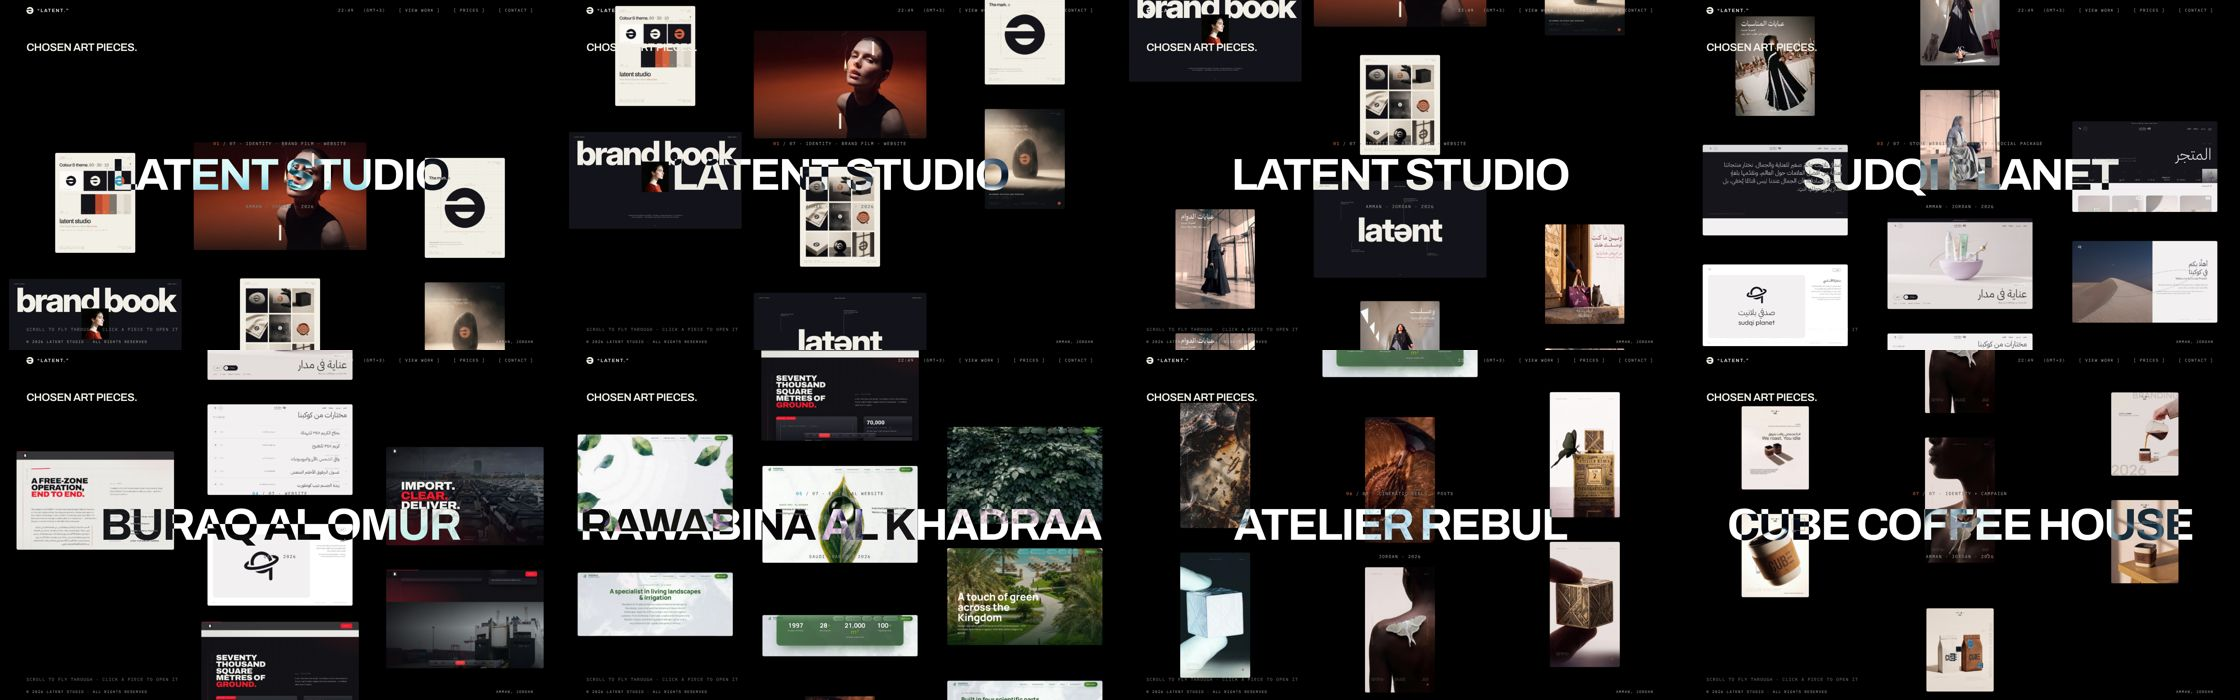
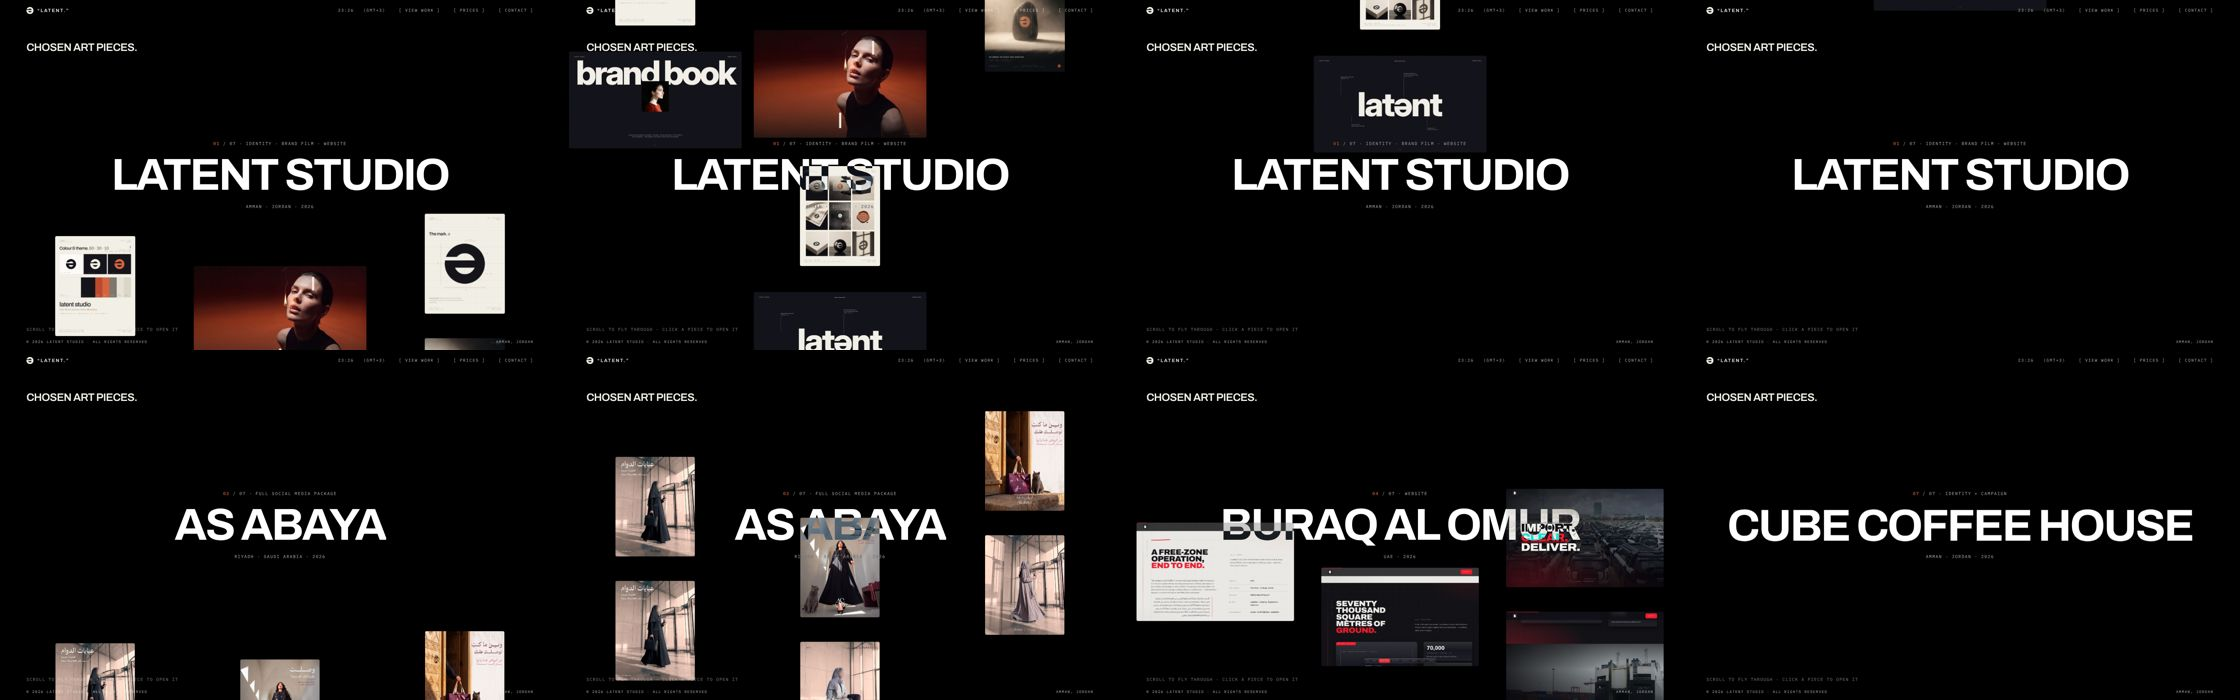
E: one project at a time in the field, an empty stretch and a name change between projects
Claude-Session: https://claude.ai/code/session_0142D8cuVtdJreCuNyu9fMo2

diff --git a/latent-v3e/index.html b/latent-v3e/index.html
@@ -2528,7 +2528,7 @@ html.pg-snap{scroll-snap-type:y proximity}
 
 /* the chosen art pieces: a flight through space */
 .fy{padding:0;background:#000;color:var(--ivory)}
-.fy-hold{position:relative;height:calc(100svh + var(--n,6) * 170vh)}
+.fy-hold{position:relative;height:calc(100svh + var(--n,6) * 190vh)}
 .fy-stage{position:sticky;top:0;height:100vh;height:100svh;overflow:hidden;background:#000}
 .fy-kick{position:absolute;left:var(--gut);top:clamp(72px,12vh,120px);z-index:5;color:var(--ivory);font-size:clamp(18px,2vw,28px)!important}
 .fy-world{position:absolute;inset:0}
@@ -2547,7 +2547,7 @@ html.pg-snap{scroll-snap-type:y proximity}
 .fy-mono{margin:0;font-family:"IBM Plex Mono",monospace;font-size:11px;letter-spacing:.16em;text-transform:uppercase;color:rgba(242,239,231,.7)}
 .fy-mono b{font-weight:500;color:var(--ember)}
 .fy-hint{position:absolute;left:var(--gut);bottom:clamp(24px,5vh,48px);margin:0;font-family:"IBM Plex Mono",monospace;font-size:11px;letter-spacing:.14em;text-transform:uppercase;color:rgba(242,239,231,.5);z-index:5}
-@media(max-width:820px){.fy-hold{height:calc(100svh + var(--n,6) * 130vh)}.fy-card{width:calc(var(--wm) * 1vw)}.fy-ph{display:none}.fy-h{font-size:clamp(34px,11vw,52px)}.fy-kick{font-size:18px!important}.fy-hint{display:none}}
+@media(max-width:820px){.fy-hold{height:calc(100svh + var(--n,6) * 150vh)}.fy-card{width:calc(var(--wm) * 1vw)}.fy-ph{display:none}.fy-h{font-size:clamp(34px,11vw,52px)}.fy-kick{font-size:18px!important}.fy-hint{display:none}}
 @media (prefers-reduced-motion:reduce){.fy-hold{height:auto}.fy-stage{position:relative;height:auto;padding:120px var(--gut)}.fy-world{position:relative;display:grid;grid-template-columns:repeat(4,1fr);gap:12px}.fy-card{position:relative;left:auto;top:auto;width:auto;visibility:visible;transform:none!important}.fy-names{display:none}}
 
 /* our work: the ledger */
@@ -4675,24 +4675,30 @@ html.pg-snap{scroll-snap-type:y proximity}
 
 /* the field: the scroll lifts every piece up through the pinned stage in lanes (three across on desktop, two on a
    phone), each lane at its own speed so the field has depth; inside a lane the pieces are stacked with a gap measured
-   from their real heights, so none ever sits on another; pieces enter from below and leave at the top; the name swaps
-   when the camera reaches the next project's band. Smoothed frame to frame so it feels filmed */
+   from their real heights, so none ever sits on another. One project at a time: its pieces enter from below, cross
+   the stage and leave at the top; then the stage is empty for a stretch, the name goes, and the next project's name
+   and pieces arrive. Smoothed frame to frame so it feels filmed */
 (function(){
   var sec = document.querySelector(".js-fy"); if(!sec) return;
   var hold = sec.querySelector(".js-fy-hold"), cards = [].slice.call(sec.querySelectorAll(".js-fy-card")), names = [].slice.call(sec.querySelectorAll(".js-fy-name")), N = names.length,
-      reduce = window.matchMedia("(prefers-reduced-motion: reduce)").matches, at = -1, BAND = 100, GAP = 7, cur = -1, target = 0, raf = 0, laid = 0;
-  var C = cards.map(function(c){ return { el: c, i: +c.dataset.i, lane: +c.dataset.lane, c: 0, s: 1, x: 0, hidden: false }; });
+      reduce = window.matchMedia("(prefers-reduced-motion: reduce)").matches, at = -1, GAP = 7, REST = 26, cur = -1, target = 0, raf = 0, laid = 0, total = 1, bands = [];
+  var C = cards.map(function(c){ return { el: c, i: +c.dataset.i, lane: +c.dataset.lane, c: 0, s: 1, x: 0, h: 0, hidden: false }; });
   function clamp(v){ return Math.min(1, Math.max(0, v)); }
   function layout(){
     var vh = window.innerHeight, vw = window.innerWidth, phone = vw < 820,
-        xs = phone ? [-24, 24] : [-33, 0, 33], sp = phone ? [1, .8] : [1, .76, 1.18], L = xs.length, cursor = xs.map(function(){ return 0; });
-    C.forEach(function(o){
-      o.hidden = getComputedStyle(o.el).display === "none"; if(o.hidden) return;
-      var l = o.lane % L; o.x = xs[l]; o.s = sp[l];
-      var h = o.el.offsetHeight / vh * 100, c = Math.max(cursor[l], o.i * BAND + 8);
-      o.c = c; cursor[l] = c + (h + GAP) / o.s;
-    });
-    laid = vw * 10000 + vh;
+        xs = phone ? [-24, 24] : [-33, 0, 33], sp = phone ? [1, .8] : [1, .76, 1.18], L = xs.length, cam0 = 0;
+    bands = [];
+    for(var pi = 0; pi < N; pi++){
+      var cursor = xs.map(function(){ return cam0; }), exit = cam0;
+      C.forEach(function(o){
+        if(o.i !== pi) return; o.hidden = getComputedStyle(o.el).display === "none"; if(o.hidden) return;
+        var l = o.lane % L; o.x = xs[l]; o.s = sp[l]; o.h = o.el.offsetHeight / vh * 100;
+        var edge = (50 + o.h / 2 + 3) / o.s, c = Math.max(cursor[l], cam0 + edge);   /* enters from below the screen once the band starts */
+        o.c = c; cursor[l] = c + (o.h + GAP) / o.s; exit = Math.max(exit, c + edge);   /* has left the top by here */
+      });
+      bands.push([cam0, exit]); cam0 = exit + REST;
+    }
+    total = Math.max(1, cam0 - REST + 6); laid = vw * 10000 + vh;
   }
   function place(cam){
     var vh = window.innerHeight, vw = window.innerWidth; if(laid !== vw * 10000 + vh) layout();
@@ -4702,7 +4708,7 @@ html.pg-snap{scroll-snap-type:y proximity}
       o.el.style.visibility = "visible";
       o.el.style.transform = "translate3d(calc(-50% + " + (o.x * vw / 100).toFixed(1) + "px), calc(-50% + " + (y * vh / 100).toFixed(1) + "px), 0)";
     });
-    var band = Math.min(N - 1, Math.max(0, Math.floor(cam / BAND)));
+    var band = -1; for(var k = 0; k < bands.length; k++){ if(cam >= bands[k][0] - 1 && cam <= bands[k][1] + 1){ band = k; break; } }
     if(band !== at){ names.forEach(function(n, k){ n.classList.toggle("off", k === at); n.classList.toggle("on", k === band); }); at = band; }
   }
   function tick(){
@@ -4710,8 +4716,9 @@ html.pg-snap{scroll-snap-type:y proximity}
     if(cur !== target) raf = requestAnimationFrame(tick);
   }
   function onScroll(){
-    if(reduce) return; var vh = window.innerHeight, b = hold.getBoundingClientRect(); if(b.bottom < -10 || b.top > vh + 10) return;
-    var run = Math.max(1, hold.offsetHeight - vh), p = clamp(-b.top / run); target = p * N * BAND;
+    if(reduce) return; var vh = window.innerHeight, vw = window.innerWidth, b = hold.getBoundingClientRect(); if(b.bottom < -10 || b.top > vh + 10) return;
+    if(laid !== vw * 10000 + vh) layout();
+    var run = Math.max(1, hold.offsetHeight - vh), p = clamp(-b.top / run); target = p * total;
     if(cur < 0) cur = target; if(!raf) raf = requestAnimationFrame(tick);
   }
   window.addEventListener("scroll", onScroll, { passive:true }); window.addEventListener("resize", function(){ laid = 0; onScroll(); place(cur < 0 ? 0 : cur); });

diff --git a/latent-v3-src/e_patch_fly.py b/latent-v3-src/e_patch_fly.py
@@ -37,7 +37,7 @@ i=s.index('<section class="sec light cf js-cf js-path ow-sec" id="ourwork">'); s
 CSS='''
 /* the chosen art pieces: a flight through space */
 .fy{padding:0;background:#000;color:var(--ivory)}
-.fy-hold{position:relative;height:calc(100svh + var(--n,6) * 170vh)}
+.fy-hold{position:relative;height:calc(100svh + var(--n,6) * 190vh)}
 .fy-stage{position:sticky;top:0;height:100vh;height:100svh;overflow:hidden;background:#000}
 .fy-kick{position:absolute;left:var(--gut);top:clamp(72px,12vh,120px);z-index:5;color:var(--ivory);font-size:clamp(18px,2vw,28px)!important}
 .fy-world{position:absolute;inset:0}
@@ -56,31 +56,37 @@ CSS='''
 .fy-mono{margin:0;font-family:"IBM Plex Mono",monospace;font-size:11px;letter-spacing:.16em;text-transform:uppercase;color:rgba(242,239,231,.7)}
 .fy-mono b{font-weight:500;color:var(--ember)}
 .fy-hint{position:absolute;left:var(--gut);bottom:clamp(24px,5vh,48px);margin:0;font-family:"IBM Plex Mono",monospace;font-size:11px;letter-spacing:.14em;text-transform:uppercase;color:rgba(242,239,231,.5);z-index:5}
-@media(max-width:820px){.fy-hold{height:calc(100svh + var(--n,6) * 130vh)}.fy-card{width:calc(var(--wm) * 1vw)}.fy-ph{display:none}.fy-h{font-size:clamp(34px,11vw,52px)}.fy-kick{font-size:18px!important}.fy-hint{display:none}}
+@media(max-width:820px){.fy-hold{height:calc(100svh + var(--n,6) * 150vh)}.fy-card{width:calc(var(--wm) * 1vw)}.fy-ph{display:none}.fy-h{font-size:clamp(34px,11vw,52px)}.fy-kick{font-size:18px!important}.fy-hint{display:none}}
 @media (prefers-reduced-motion:reduce){.fy-hold{height:auto}.fy-stage{position:relative;height:auto;padding:120px var(--gut)}.fy-world{position:relative;display:grid;grid-template-columns:repeat(4,1fr);gap:12px}.fy-card{position:relative;left:auto;top:auto;width:auto;visibility:visible;transform:none!important}.fy-names{display:none}}
 '''
 j=s.rfind('</style>'); s=s[:j]+CSS+s[j:]
 JS='''
 /* the field: the scroll lifts every piece up through the pinned stage in lanes (three across on desktop, two on a
    phone), each lane at its own speed so the field has depth; inside a lane the pieces are stacked with a gap measured
-   from their real heights, so none ever sits on another; pieces enter from below and leave at the top; the name swaps
-   when the camera reaches the next project's band. Smoothed frame to frame so it feels filmed */
+   from their real heights, so none ever sits on another. One project at a time: its pieces enter from below, cross
+   the stage and leave at the top; then the stage is empty for a stretch, the name goes, and the next project's name
+   and pieces arrive. Smoothed frame to frame so it feels filmed */
 (function(){
   var sec = document.querySelector(".js-fy"); if(!sec) return;
   var hold = sec.querySelector(".js-fy-hold"), cards = [].slice.call(sec.querySelectorAll(".js-fy-card")), names = [].slice.call(sec.querySelectorAll(".js-fy-name")), N = names.length,
-      reduce = window.matchMedia("(prefers-reduced-motion: reduce)").matches, at = -1, BAND = 100, GAP = 7, cur = -1, target = 0, raf = 0, laid = 0;
-  var C = cards.map(function(c){ return { el: c, i: +c.dataset.i, lane: +c.dataset.lane, c: 0, s: 1, x: 0, hidden: false }; });
+      reduce = window.matchMedia("(prefers-reduced-motion: reduce)").matches, at = -1, GAP = 7, REST = 26, cur = -1, target = 0, raf = 0, laid = 0, total = 1, bands = [];
+  var C = cards.map(function(c){ return { el: c, i: +c.dataset.i, lane: +c.dataset.lane, c: 0, s: 1, x: 0, h: 0, hidden: false }; });
   function clamp(v){ return Math.min(1, Math.max(0, v)); }
   function layout(){
     var vh = window.innerHeight, vw = window.innerWidth, phone = vw < 820,
-        xs = phone ? [-24, 24] : [-33, 0, 33], sp = phone ? [1, .8] : [1, .76, 1.18], L = xs.length, cursor = xs.map(function(){ return 0; });
-    C.forEach(function(o){
-      o.hidden = getComputedStyle(o.el).display === "none"; if(o.hidden) return;
-      var l = o.lane % L; o.x = xs[l]; o.s = sp[l];
-      var h = o.el.offsetHeight / vh * 100, c = Math.max(cursor[l], o.i * BAND + 8);
-      o.c = c; cursor[l] = c + (h + GAP) / o.s;
-    });
-    laid = vw * 10000 + vh;
+        xs = phone ? [-24, 24] : [-33, 0, 33], sp = phone ? [1, .8] : [1, .76, 1.18], L = xs.length, cam0 = 0;
+    bands = [];
+    for(var pi = 0; pi < N; pi++){
+      var cursor = xs.map(function(){ return cam0; }), exit = cam0;
+      C.forEach(function(o){
+        if(o.i !== pi) return; o.hidden = getComputedStyle(o.el).display === "none"; if(o.hidden) return;
+        var l = o.lane % L; o.x = xs[l]; o.s = sp[l]; o.h = o.el.offsetHeight / vh * 100;
+        var edge = (50 + o.h / 2 + 3) / o.s, c = Math.max(cursor[l], cam0 + edge);   /* enters from below the screen once the band starts */
+        o.c = c; cursor[l] = c + (o.h + GAP) / o.s; exit = Math.max(exit, c + edge);   /* has left the top by here */
+      });
+      bands.push([cam0, exit]); cam0 = exit + REST;
+    }
+    total = Math.max(1, cam0 - REST + 6); laid = vw * 10000 + vh;
   }
   function place(cam){
     var vh = window.innerHeight, vw = window.innerWidth; if(laid !== vw * 10000 + vh) layout();
@@ -90,7 +96,7 @@ JS='''
       o.el.style.visibility = "visible";
       o.el.style.transform = "translate3d(calc(-50% + " + (o.x * vw / 100).toFixed(1) + "px), calc(-50% + " + (y * vh / 100).toFixed(1) + "px), 0)";
     });
-    var band = Math.min(N - 1, Math.max(0, Math.floor(cam / BAND)));
+    var band = -1; for(var k = 0; k < bands.length; k++){ if(cam >= bands[k][0] - 1 && cam <= bands[k][1] + 1){ band = k; break; } }
     if(band !== at){ names.forEach(function(n, k){ n.classList.toggle("off", k === at); n.classList.toggle("on", k === band); }); at = band; }
   }
   function tick(){
@@ -98,8 +104,9 @@ JS='''
     if(cur !== target) raf = requestAnimationFrame(tick);
   }
   function onScroll(){
-    if(reduce) return; var vh = window.innerHeight, b = hold.getBoundingClientRect(); if(b.bottom < -10 || b.top > vh + 10) return;
-    var run = Math.max(1, hold.offsetHeight - vh), p = clamp(-b.top / run); target = p * N * BAND;
+    if(reduce) return; var vh = window.innerHeight, vw = window.innerWidth, b = hold.getBoundingClientRect(); if(b.bottom < -10 || b.top > vh + 10) return;
+    if(laid !== vw * 10000 + vh) layout();
+    var run = Math.max(1, hold.offsetHeight - vh), p = clamp(-b.top / run); target = p * total;
     if(cur < 0) cur = target; if(!raf) raf = requestAnimationFrame(tick);
   }
   window.addEventListener("scroll", onScroll, { passive:true }); window.addEventListener("resize", function(){ laid = 0; onScroll(); place(cur < 0 ? 0 : cur); });
